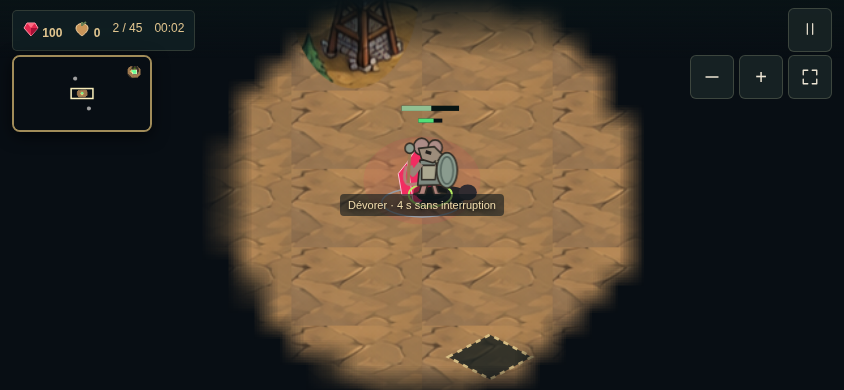
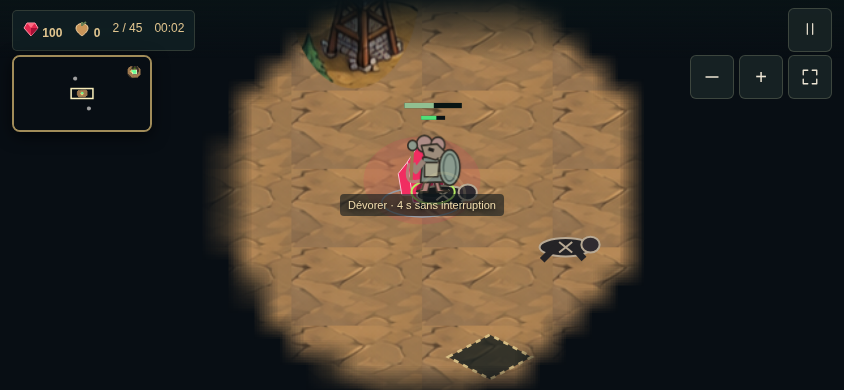
Codex : #122 Cuisine de guerre 3/3 : les Rats-Goût dévorent les cadavres

Changed region(s): [[0.4621, 0.2462, 0.5545, 0.5231], [0.7085, 0.2154, 0.7701, 0.3385], [0.6161, 0.5846, 0.7085, 0.6769]]

diff --git a/public/game/tap.js b/public/game/tap.js
@@ -25,10 +25,12 @@ export function resolveTap(state, player, selection, point, scale = 1, onTarget 
   );
   const workers = selected.filter((unit) => unit.type === 'commis');
   const combat = selected.some((unit) => unit.type !== 'commis');
+  const ratMilitary = player === 1 && combat;
   const candidates = [];
   const priorities = workers.length
     ? ['mine', 'unit', 'enemy', 'building', 'slot']
     : combat ? ['enemy', 'unit', 'building', 'mine', 'slot'] : ['unit', 'enemy', 'building', 'slot', 'mine'];
+  if (ratMilitary) priorities.splice(priorities.indexOf('enemy') + 1, 0, 'corpse');
   function add(target, category, radius, action, bounds = null, sprite = false) {
     const center = sprite
       ? { x: bounds.x + bounds.width / 2, y: bounds.y + bounds.height / 2 }
@@ -48,9 +50,10 @@ export function resolveTap(state, player, selection, point, scale = 1, onTarget 
     else add(unit, combat && !workers.length ? 'enemy' : 'unit', 26, selected.length ? { kind: 'attack', target: unit } : { kind: 'none' }, unitHitbox(unit), true);
   }
   for (const corpse of state.corpses || []) {
+    if (!ratMilitary) continue;
     if (corpse.expiresAt <= state.time || !Sim.visibleAt(state, player, corpse.x, corpse.y)) continue;
-    if (selected.length) add(corpse, 'corpse', 22, {
-      kind: player === 1 && combat ? 'devour' : 'move',
+    add(corpse, 'corpse', 22, {
+      kind: 'devour',
       ids: selected.map((unit) => unit.id),
       corpseId: corpse.id,
     });
@@ -86,13 +89,6 @@ export function resolveTap(state, player, selection, point, scale = 1, onTarget 
   if (!candidates.length) return { kind: selected.length ? 'move' : 'none' };
   const ownUnits = selected.length ? [] : candidates.filter((candidate) => candidate.action.kind === 'select');
   const eligible = ownUnits.length ? ownUnits : candidates;
-  const corpseHit = eligible.some((candidate) => candidate.category === 'corpse');
-  if (corpseHit) {
-    const winner = eligible.filter((candidate) => candidate.category === 'corpse' ||
-      (candidate.target.hp > 0 && candidate.target.team !== player))
-      .sort((a, b) => (a.category === 'corpse' ? 1 : 0) - (b.category === 'corpse' ? 1 : 0) || a.distance - b.distance)[0];
-    return winner.action;
-  }
   const nearest = Math.min(...eligible.map((candidate) => candidate.distance));
   const tied = eligible.filter((candidate) => candidate.distance <= nearest + 6);
   tied.sort((a, b) => priorities.indexOf(a.category) - priorities.indexOf(b.category) || a.distance - b.distance);

diff --git a/public/game/game.js b/public/game/game.js
@@ -1082,10 +1082,16 @@ function draw() {
     if (!Sim.visibleAt(state, player, corpse.x, corpse.y)) continue;
     ctx.save();
     ctx.globalAlpha = Math.max(0, Math.min(1, (corpse.expiresAt - state.time) / 5));
+    ctx.strokeStyle = '#b8a994';
+    ctx.lineWidth = 2 / scale;
     ellipse(corpse.x, corpse.y, corpse.type === 'sanglier' ? 25 : 20, 7, '#242326');
+    ctx.stroke();
     ellipse(corpse.x + 19, corpse.y - 2, 7, 6, '#302b30');
+    ctx.stroke();
     line(corpse.x - 8, corpse.y, corpse.x - 18, corpse.y + 10, '#242326', 5);
     line(corpse.x + 6, corpse.y, corpse.x + 14, corpse.y + 9, '#242326', 5);
+    line(corpse.x - 5, corpse.y - 4, corpse.x + 5, corpse.y + 4, '#b8a994', 2 / scale);
+    line(corpse.x - 5, corpse.y + 4, corpse.x + 5, corpse.y - 4, '#b8a994', 2 / scale);
     ctx.restore();
   }
   preparedUnits.forEach(unit);

diff --git a/docs/issue-107/README.md b/docs/issue-107/README.md
@@ -2,7 +2,7 @@
 
 Les militaires des deux camps et les Sangliers laissent un cadavre non bloquant pendant 30 secondes. La commande partagée `devour` envoie un seul militaire Rat manger pendant 4 secondes ; ses compagnons se déplacent à côté. Le repas apporte 6 ingrédients (10 pour un Sanglier) et soigne 30 % des PV maximum. Les dégâts pendant le repas et les nouveaux ordres l'annulent sans gain. Un cadavre consommé ou expiré libère proprement les autres rats qui le visaient.
 
-Le tap dispose d'un diamètre minimal de 44 pixels, avec priorité aux ennemis puis aux cadavres. Les Cuistots se déplacent simplement. Les cadavres s'estompent durant leurs 5 dernières secondes ; une barre indique le repas et le gain flotte à la fin. Les commandes et les données visibles passent aussi par le serveur multijoueur. L'IA et le Ragoût restent inchangés.
+Pour une sélection contenant un militaire Rat, le tap sur un cadavre dispose d'un diamètre minimal de 44 pixels ; à distance équivalente (6 pixels), les ennemis précèdent les cadavres. Les ouvriers seuls et les Cuistots ignorent les cadavres pour le ciblage, ce qui préserve les taps sur les mines et bâtiments. Le contour os de 2 pixels à l'écran et la croix claire rendent la silhouette sombre repérable. Les cadavres s'estompent durant leurs 5 dernières secondes ; une barre indique le repas et le gain flotte à la fin. Les commandes et les données visibles passent aussi par le serveur multijoueur. L'IA et le Ragoût restent inchangés.
 
 ## Vérifications
 
@@ -10,7 +10,7 @@ Le tap dispose d'un diamètre minimal de 44 pixels, avec priorité aux ennemis p
 - Tests courts de `tests/`, avec `node tests/ai-carte-agrandie.mjs --short`.
 - Conformément à la consigne spécifique : `ai.mjs`, `impitoyable.mjs`, `ia-sans-blocage.mjs` et `equilibrage-factions.mjs` sont laissés au relecteur.
 - `node --check` sur chaque fichier `public/game/*.js` et `git diff --check`.
-- Chromium tactile 844×390 : tap réel sur un cadavre, vérification d'un repas en cours et absence d'erreur JavaScript. Capture : [devorer-844x390.png](devorer-844x390.png).
+- Chromium tactile 844×390 : tap réel sur un cadavre, vérification d'un repas en cours et absence d'erreur JavaScript. Capture avec un cadavre seul au sol et un cadavre en cours de repas avec sa barre : [devorer-844x390.png](devorer-844x390.png).
 
 La capture se reproduit avec `PLAYWRIGHT_MODULE=/chemin/vers/playwright/index.mjs node scripts/devorer-capture.mjs` (Chromium dans `/usr/bin/chromium`, ou variable `CHROME_PATH`). Le scénario est injecté uniquement par le serveur local du script.
 
